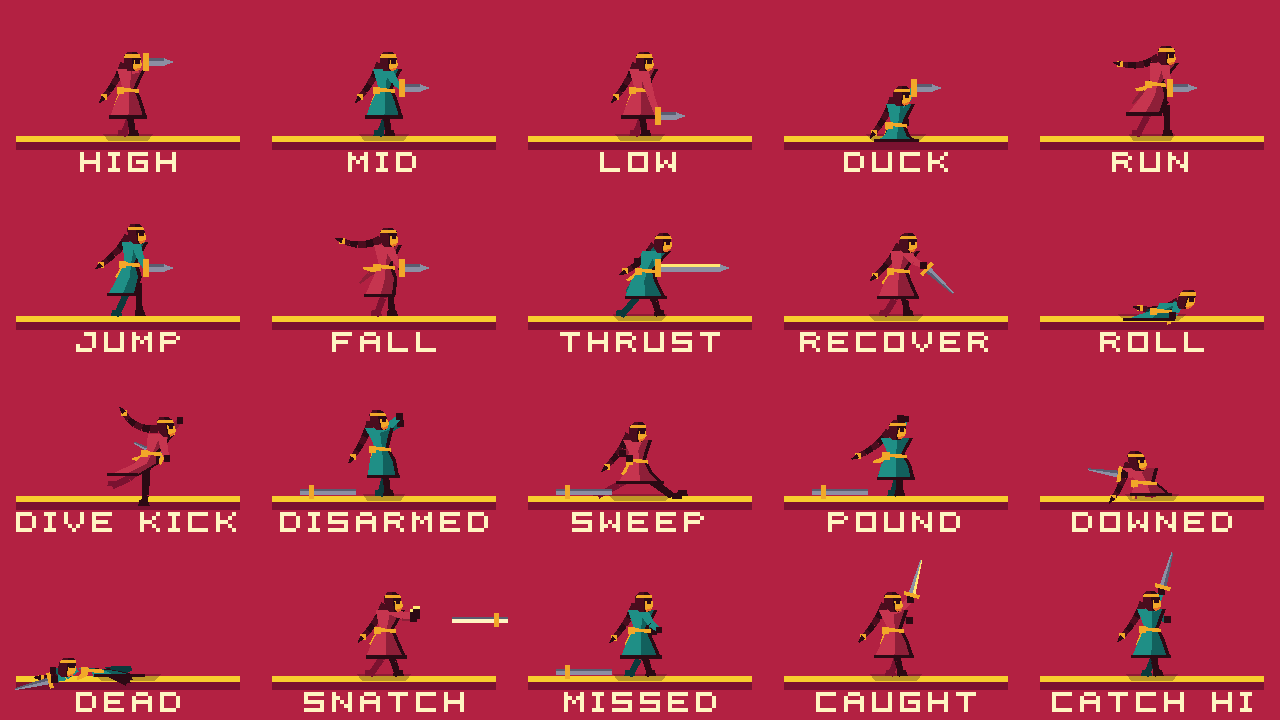
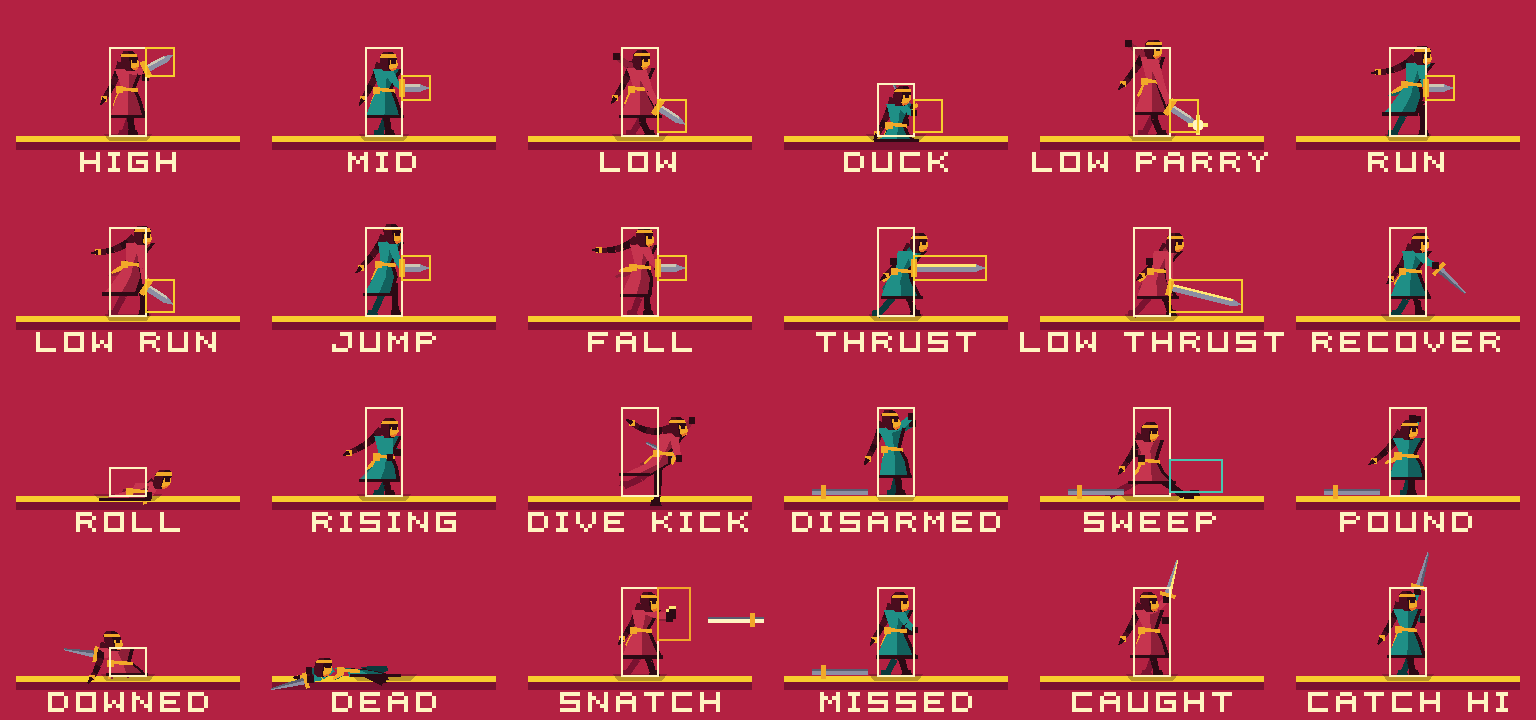
Give the duel's LOW guard a pose of its own and take the blade off the duck
On a phone the owner could not tell a LOW guard from MID or from the duck:
LOW was the MID figure with its level blade seven pixels lower, and the duck
held that same level blade at the same height from a crouch. Each height now
has a body of its own (FighterArt.GUARDS, a table) and a blade slant
(BLADE_SLOPE): HIGH points up, MID is level, LOW stands tallest with the
feet wide, the hood down the blade and the free arm thrown back, and points
at the other's shins. The slant stays inside the simulation's blade rect.
The duck parries nothing, so it no longer draws a blade along a guard: the
sword is pulled up behind the shoulder. Blades meeting strike a spark at
each fighter's own blade, so a LOW parry lights up at the shins, and the
rise out of a roll carries its sword trailing.

The pose sheet grows to six columns with RISING, the duck at LOW, a LOW
parry, a LOW run and a LOW thrust, and both sheets are re-rendered.
Presentation only; nothing here is read by the simulation.

Claude-Session: https://claude.ai/code/session_01CS5kLXfHzuqFJNCkKoEvRT

diff --git a/docs/duel-combat.md b/docs/duel-combat.md
@@ -146,6 +146,39 @@ the guard still up (and a run turning the back), the duck planted under HIGH,
 and the thrust from a duck as designed. Each was seen to fail with the old
 rule put back.
 
+### Seeing the guard
+
+**The picture.** The LOW guard was the MID figure with its level blade seven
+pixels lower: at phone scale, a blade at the knee of the same figure. The duck
+was a folded figure holding the *same* level blade at the *same* height, since
+the duck is down with WALK and down is LOW. Two pictures with a low blade in
+them, one a guard and one the posture LOW kills. Now each height has a body of
+its own (`FighterArt.GUARDS`, a table) and the blade a slant (`BLADE_SLOPE`):
+
+| | Body | Blade |
+|---|---|---|
+| HIGH | back on the heels, free hand before the chest | point up |
+| MID | the square stance it always had | level |
+| LOW | the tallest of the three, feet planted wide, hood down the blade, the free arm thrown up and back | point down at the other's shins |
+| duck | folded to 13 px | none along the guard: the sword is pulled up behind the shoulder |
+
+The slant is drawn inside the simulation's blade rect, a pixel in from its top
+and bottom, so the rule that the picture of the sword *is* what parries still
+holds. A duck parries nothing, so it no longer draws a blade where a guard
+would be. A thrust keeps its height's slant, so a LOW thrust is seen aimed at
+the shins, and the rise out of a roll carries the sword trailing behind.
+
+**The parry.** When blades meet, each fighter's blade strikes a spark where it
+is (`FighterArt._on_clashed()`): at the shins for a LOW parry. The height that
+turned the thrust is the height that lights up.
+
+Judged on rendered pixels, at a phone's scale, on both figures and in the
+Well's night as well as the Tug's afternoon: `docs/fighter-poses.png` and
+`docs/heroine-fighter-poses.png` set HIGH, MID, LOW, the duck and a LOW parry
+side by side. `tests/unit/test_duel_guard_poses.gd` holds the slants, LOW's
+height and arm, the duck's empty guard and the spark on the rig's own points,
+and was seen to fail against the art as it was.
+
 ## The disarm window
 
 This is the most important number in the combat system, because it decides

diff --git a/docs/character.md b/docs/character.md
@@ -781,7 +781,11 @@ What the fighter adds is one rule: **the sword is drawn where the simulation's
 blade rect is.** Same height as the stance band, same reach, the front hand
 moved onto its hilt in `_rig()`. The duel is decided by where that rectangle
 is, so the picture of the sword *is* the rectangle, and HIGH, MID and LOW read
-at a glance. When the blade is held but not up — a roll, a dive, the recovery
+at a glance: the blade is drawn across its rect on a slant, point up at HIGH,
+level at MID and down at the shins at LOW, and each height has a body of its
+own (`FighterArt.GUARDS`), LOW the tallest with the free arm thrown back. A
+duck parries nothing and draws no blade along the guard
+([`duel-combat.md`](duel-combat.md#seeing-the-guard) argues all of it). When the blade is held but not up — a roll, a dive, the recovery
 of a thrust that missed — it is carried on the pose's angle instead, visibly
 lowered, because a fighter who missed has to be seen to be open.
 
@@ -797,7 +801,7 @@ the prince's crimson steps, whatever figure or look either player chose (see the
 heroine, below).
 
 ```bash
-xvfb-run -a godot --path . --rendering-driver opengl3 --resolution 1280x720 \
+xvfb-run -a godot --path . --rendering-driver opengl3 --resolution 1536x720 \
   --script tests/fighter_poses.gd -- --out docs/fighter-poses.png [--hitboxes]
 ```
 
@@ -898,7 +902,7 @@ xvfb-run -a godot --path . --rendering-driver opengl3 \
 python3 tests/character_contact_sheet.py docs/heroine-poses.png \
   "prince=/tmp/poses/prince" "heroine=/tmp/poses/heroine"
 
-xvfb-run -a godot --path . --rendering-driver opengl3 --resolution 1280x720 \
+xvfb-run -a godot --path . --rendering-driver opengl3 --resolution 1536x720 \
   --script tests/fighter_poses.gd -- --out docs/heroine-fighter-poses.png \
   --figure heroine [--hitboxes]
 ```

diff --git a/docs/duel-match.md b/docs/duel-match.md
@@ -824,6 +824,9 @@ What moved, and why:
   one is asked for.
 - `tests/unit/test_match_hud_series.gd` — the plate's score is the match's.
 - `tests/unit/test_net_fairness_version.gd` — protocol 4 refuses protocol 3.
+- `tests/unit/test_duel_guard_poses.gd` — HIGH, MID, LOW and the duck as four
+  pictures: the blade's slant, LOW's height and free arm, the duck's empty
+  guard, the parry's spark.
 - `tests/unit/test_duel_cpu_mode.gd` — the scene at the level the duel page
   saved, stepping both seats.
 - `tests/unit/test_duel_select.gd` — the one DUEL row, the page's three ways,
